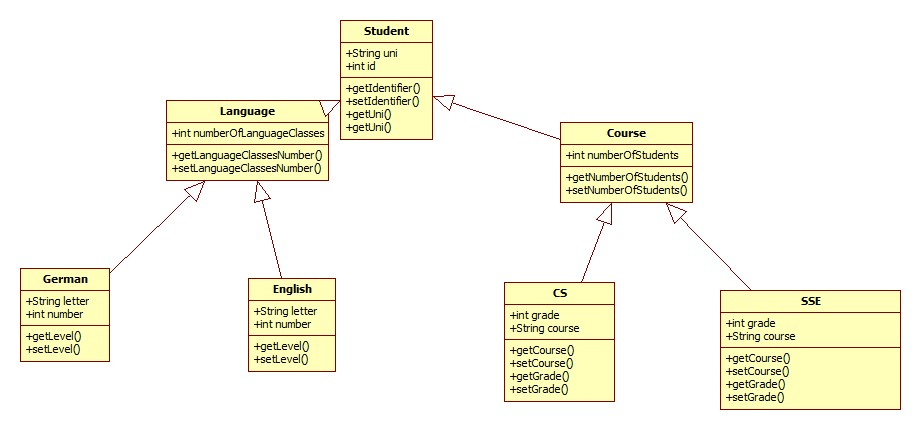
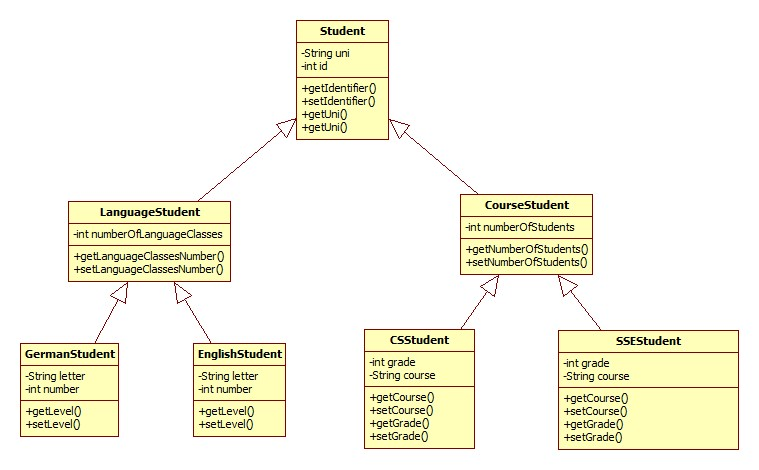
[Edit] Post-review edit.

Changed region(s): [[0.0, 0.0302, 0.7879, 0.9674], [0.7273, 0.6651, 1.0, 0.9674], [0.2424, 0.6349, 0.3939, 0.9372]]

diff --git a/Assignment2/report/Group10_Assignment2_OOSC_2020.tex b/Assignment2/report/Group10_Assignment2_OOSC_2020.tex
@@ -92,7 +92,7 @@
 	\setcounter{chapter}{2} % Aktuelles Assigment
 	\section{Assignment:}
 	
-    \includegraphics[keepaspectratio,width=0.25\textwidth,angle=0]{images/ClassDiagram1.jpg}
+    \includegraphics[keepaspectratio,width=0.25\textwidth,angle=0]{../uml/ClassDiagram1.jpg}
     
 	\begin{table}[h]
 		\centering
@@ -160,9 +160,12 @@
     \end{flushleft}
 	
 	\section{Assignment:}
-		\includegraphics[keepaspectratio,width=\textwidth,angle=0]{images/ClassDiagram4.jpg}\\
-		This is a view inheritance example, because we have a student that has two categories of specialization of students - we can either consider them by language they speak or by the course they are taking.
-		Language and Course are then the classification criteria. We decided to add the additional abstraction level to increase the readability of the situation.
+		\includegraphics[keepaspectratio,width=\textwidth,angle=0]{../uml/ClassDiagram4.jpg}\\
+		\begin{flushleft}
+			This is a view inheritance example, because we have a student that has two categories of specialization of students - we can either consider them by language they speak or by the course they are taking.\\
+			Language and Course are then the classification criteria. We decided to add the additional abstraction level to increase the readability of the situation.\\
+			Corresponding code is at code/src/main/java/Q4 and JUnit tests can be found at code/src/test/java/Q4/StudentTest.java
+		\end{flushleft}
 	\section{Assignment:}
 		\input{q5/ex5.tex}
 	\section{Assignment:}

diff --git a/Assignment2/code/src/test/java/Q4/StudentTest.java b/Assignment2/code/src/test/java/Q4/StudentTest.java
@@ -6,17 +6,17 @@ import org.junit.jupiter.api.Test;
 
 public class StudentTest
 {
-	private English e;
-	private German g;
-	private CS c;
-	private SSE s;
+	private EnglishStudent e;
+	private GermanStudent g;
+	private CSStudent c;
+	private SSEStudent s;
 	
 	@BeforeEach
 	public void init() {
-		e = new English();
-		g = new German();
-		c = new CS();
-		s = new SSE();
+		e = new EnglishStudent();
+		g = new GermanStudent();
+		c = new CSStudent();
+		s = new SSEStudent();
 	}
 
 	@Test
@@ -92,18 +92,18 @@ public class StudentTest
 	@Test
 	public void CS()
 	{
-		c.setCourse("CS");
+		c.setCourse("CSStudent");
 		c.setGrade(1);
-		assertEquals(c.getCourse(), "CS", "Course not set.");
+		assertEquals(c.getCourse(), "CSStudent", "CourseStudent not set.");
 		assertEquals(c.getGrade(), 1, "Grade not set.");
 	}
 
 	@Test
 	public void SSE()
 	{
-		s.setCourse("SSE");
+		s.setCourse("SSEStudent");
 		s.setGrade(2);
-		assertEquals(s.getCourse(), "SSE", "Course not set.");
+		assertEquals(s.getCourse(), "SSEStudent", "CourseStudent not set.");
 		assertEquals(s.getGrade(), 2, "Grade not set.");
 	}
 

diff --git a/Assignment2/code/src/main/java/Q4/Student.java b/Assignment2/code/src/main/java/Q4/Student.java
@@ -2,25 +2,25 @@ package Q4;
 
 public class Student
 {
-    String uni = ""; // initially unknown
-    int id = 0; // initially no id
+    private String uni = ""; // initially unknown
+    private int id = 0; // initially no id
 
-    int getIdentifier()
+    public int getIdentifier()
     {
         return id;
     }
 
-    void setIdentifier(int i)
+    public void setIdentifier(int i)
     {
         this.id = i;
     }
 
-    String getUni()
+    public String getUni()
     {
         return uni;
     }
 
-    void setUni(String u)
+    public void setUni(String u)
     {
         this.uni = u;
     }

diff --git a/Assignment2/code/src/main/java/Q4/SSEStudent.java b/Assignment2/code/src/main/java/Q4/SSEStudent.java
@@ -1,0 +1,27 @@
+package Q4;
+
+public class SSEStudent extends CourseStudent
+{
+    private int grade = 1;
+    private String course = "SSEStudent";
+
+    public void setGrade(int g)
+    {
+        grade = g;
+    }
+
+    public int getGrade()
+    {
+        return grade;
+    }
+
+    public void setCourse(String c)
+    {
+        course = c;
+    }
+
+    public String getCourse()
+    {
+        return course;
+    }
+}

diff --git a/Assignment2/code/src/main/java/Q4/CSStudent.java b/Assignment2/code/src/main/java/Q4/CSStudent.java
@@ -1,0 +1,27 @@
+package Q4;
+
+public class CSStudent extends CourseStudent
+{
+    private int grade = 1;
+    private String course = "CSStudent";
+
+    public void setGrade(int g)
+    {
+        grade = g;
+    }
+
+    public int getGrade()
+    {
+        return grade;
+    }
+
+    public void setCourse(String c)
+    {
+        course = c;
+    }
+
+    public String getCourse()
+    {
+        return course;
+    }
+}

diff --git a/Assignment2/code/src/main/java/Q4/LanguageStudent.java b/Assignment2/code/src/main/java/Q4/LanguageStudent.java
@@ -1,0 +1,16 @@
+package Q4;
+
+public class LanguageStudent extends Student
+{
+    private int numberOfLanguageClasses = 0; //no knowledge of language classes
+
+    public int getLanguageClassesNumber()
+    {
+        return numberOfLanguageClasses;
+    }
+
+    public void setLanguageClassesNumber(int n)
+    {
+        this.numberOfLanguageClasses = n;
+    }
+}

diff --git a/Assignment2/code/src/main/java/Q4/CourseStudent.java b/Assignment2/code/src/main/java/Q4/CourseStudent.java
@@ -1,0 +1,16 @@
+package Q4;
+
+public class CourseStudent extends Student
+{
+    private int numberOfStudents = 0; //no knowledge of language initially
+
+    public int getNumberOfStudents()
+    {
+        return numberOfStudents;
+    }
+
+    public void setNumberOfStudents(int n)
+    {
+        numberOfStudents = n;
+    }
+}

diff --git a/Assignment2/code/src/main/java/Q4/EnglishStudent.java b/Assignment2/code/src/main/java/Q4/EnglishStudent.java
@@ -1,0 +1,18 @@
+package Q4;
+
+public class EnglishStudent extends LanguageStudent
+{
+    private String letter = "A";
+    private int number = 1;
+
+    public void setLevel(String l, int n)
+    {
+        letter = l;
+        number = n;
+    }
+
+    public String getLevel()
+    {
+        return letter+number;
+    }
+}

diff --git a/Assignment2/code/src/main/java/Q4/GermanStudent.java b/Assignment2/code/src/main/java/Q4/GermanStudent.java
@@ -1,0 +1,18 @@
+package Q4;
+
+public class GermanStudent extends LanguageStudent
+{
+    private String letter = "A";
+    private int number = 1;
+
+    public void setLevel(String l, int n)
+    {
+        letter = l;
+        number = n;
+    }
+
+    public String getLevel()
+    {
+        return letter+number;
+    }
+}
